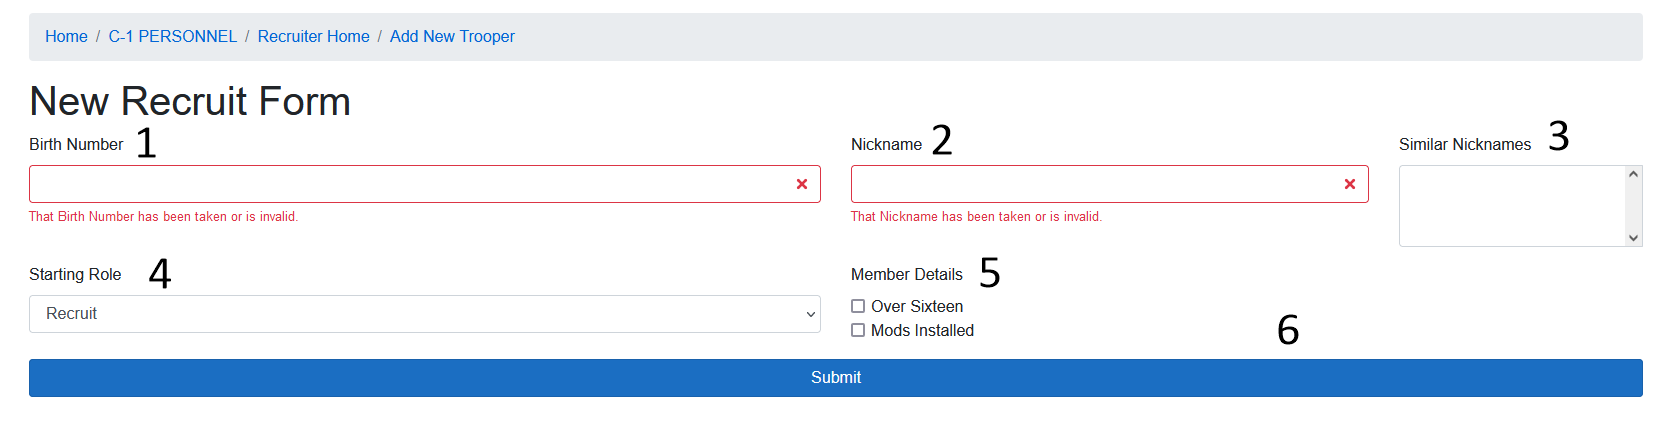
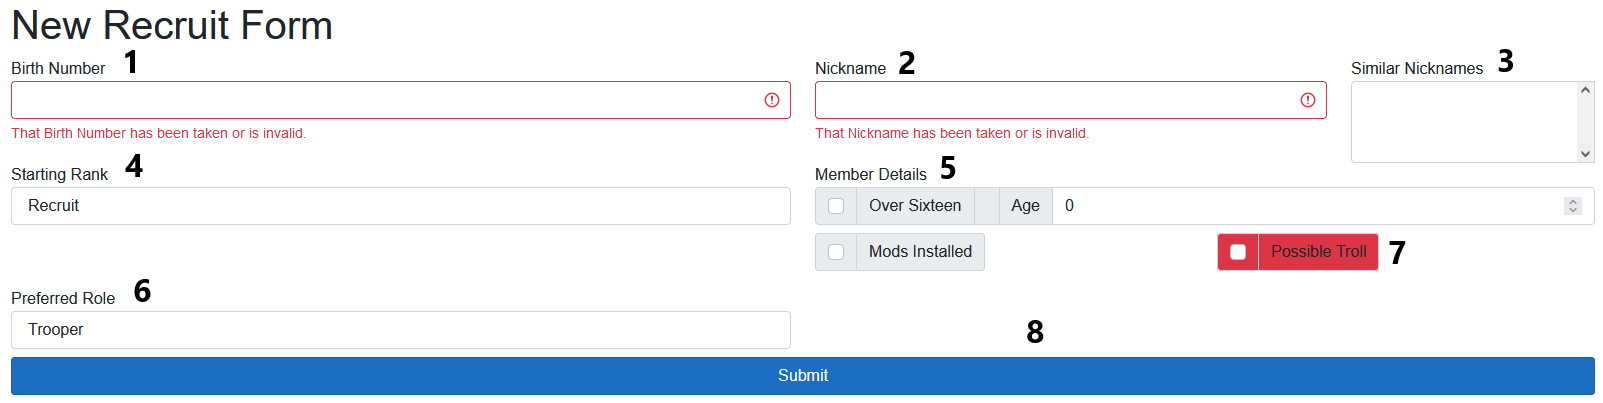
V 0.2.0 (Recruiter Page Updated) Issue 79 [skip ci]

diff --git a/docs/c1/recruiting.md b/docs/c1/recruiting.md
@@ -13,9 +13,11 @@ Once in the recruiting home page, there are two pages of importance. The New Rec
 1. The birth number field is where the new recruit's birth number will be entered. It does not allow repeated birth numbers.
 2. The Nickname filed is where the trooper nickname will go. It does not allow repeated nicknames for active troopers, and shows similar nicknames (3) to the one entered.
 3. Shows similar nicknames to the value entered in the Nickname box (2)
-4. The starting role of ths recruit. Mainly to be used by returning member staff in the event a new account is needed for some reason.
+4. The starting rank of this recruit. Mainly to be used by returning member staff in the event a new account is needed for some reason.
 5. Additional member details for use in later systems.
-6. Submit button. If a new account has been created, a popup will show with the new access code for the account you just created.
+6. The preferred role of this recruit. 
+7. Possible Troll Button. This button is to be used in the event that you believe this recruit is a troll, but do not have sufficient evidence. To use, click the white check box to the left, and hit the Possible Troll button to confirm the selection.
+8. Submit button. If a new account has been created, a popup will show with the new access code for the account you just created.
 
 ## Unregistered Troopers
 
@@ -23,4 +25,4 @@ Once in the recruiting home page, there are two pages of importance. The New Rec
 
 1. Filter the display (3) by Birth Number
 2. Filter the display (3) by Nickname
-3. The display portion shows a single row per trooper who has not registered their account. The first four columns show details about the trooper, while the fifth column holds the troopers access code. This should be given to the trooper so they can register their account.
+3. The display portion shows a single row per trooper who has not registered their account. The first seven columns show details about the trooper, while the eigth column holds the troopers access code. This should be given to the trooper so they can register their account.
